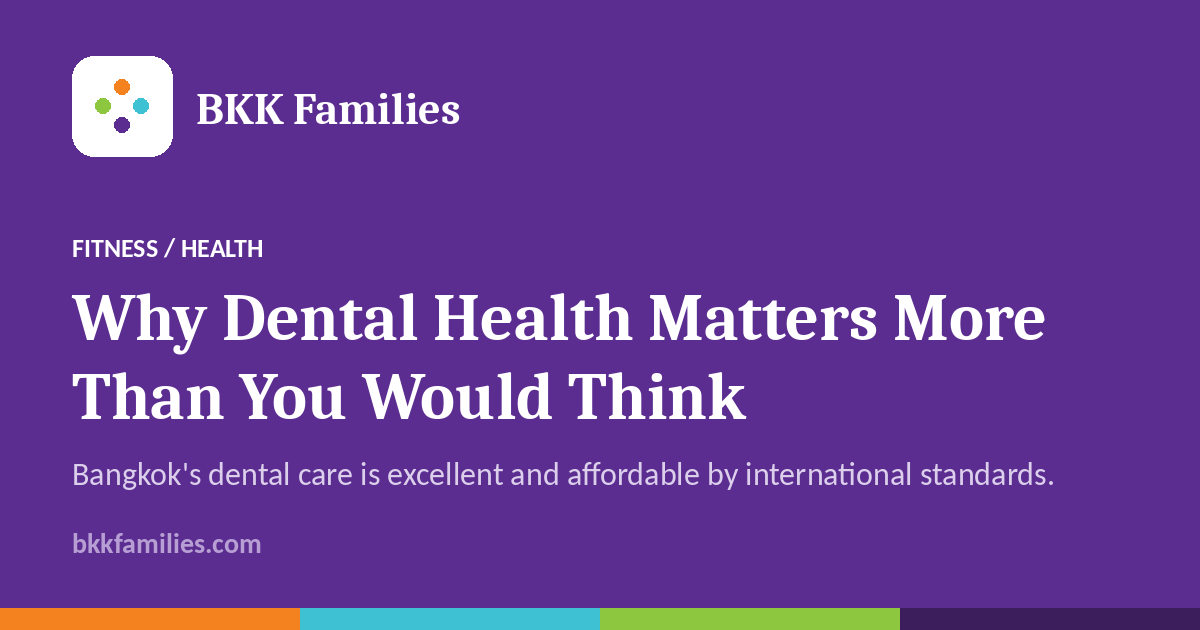
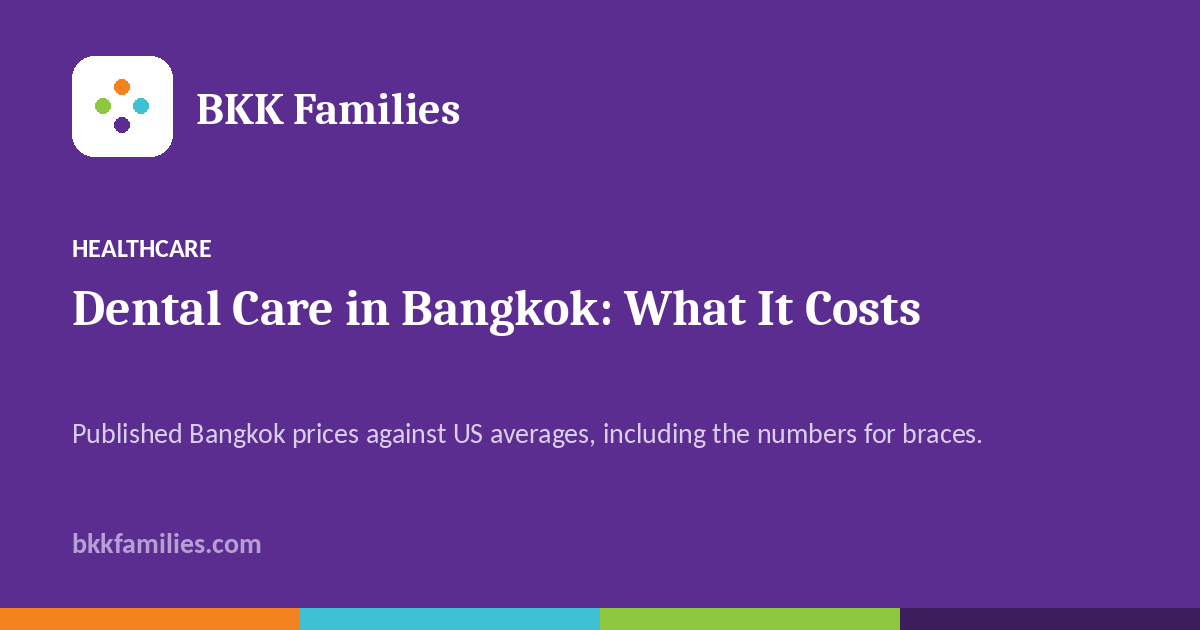
Add Open Graph cards for the healthcare articles, fix three stale ones
Eight 1200x630 cards in public/images/og/blog, and the five new slugs
added to OG_CARDS. Nothing in the healthcare section falls back to the
generic blog image any more.

Five are new: having-a-baby-in-bangkok, bangkok-smog-season-kids,
pharmacies-in-thailand-guide, health-insurance-expat-families-bangkok,
heatstroke-thailand-hot-season.

Three are corrections. top-5-hospitals-in-bangkok,
dental-health-for-families-in-bangkok and staying-fit-in-bangkok
already had cards showing the titles they had before this round of
rewrites, so anyone sharing those links got a preview that did not
match the page. The fitness card also still said HEALTHCARE and now
reads LOCAL LIFE.

Matched to the existing cards by measurement rather than by eye:
background #5C2D91, 22px bottom bar in four 300px brand-colour
segments, logo band at y56, eyebrow y240, title y289 at 60px line
height, excerpt y423 at 37px, domain y533. Type is Caladea Bold 50
over Carlito 26/28, which matched the originals to within 2px on line
width and ink height simultaneously. The site's heading stack is
Georgia, Cambria, serif and these were rendered from the Cambria slot,
not Georgia. Logo and wordmark are lifted from an existing card rather
than redrawn, so the branding is identical by construction.
Regenerating an existing card from scratch diffed at 1.6% of pixels,
all of it text antialiasing.

Note added above OG_CARDS: a slug listed there must have a matching
[…]

Changed region(s): [[0.0617, 0.573, 0.8942, 0.7841], [0.0617, 0.4524, 0.8942, 0.573], [0.0617, 0.3619, 0.2158, 0.4222]]

diff --git a/src/app/blog/[slug]/page.tsx b/src/app/blog/[slug]/page.tsx
@@ -10,6 +10,14 @@ import RichText, { stripRichText } from "@/components/ui/RichText";
  * Articles that ship a generated Open Graph card, keyed by slug. Anything
  * without a heroImage and not listed here falls back to the generic blog
  * card, so a new article can never end up with no share image at all.
+ *
+ * A slug listed here MUST have a matching file at
+ * public/images/og/blog/<slug>.png, or the share image 404s, which is worse
+ * than the default. Add the file and the slug together.
+ *
+ * The cards carry the article title, so RETITLING AN ARTICLE MEANS
+ * REGENERATING ITS CARD. Three cards here were left showing old titles after
+ * a round of rewrites before anyone noticed.
  */
 const OG_CARDS = new Set([
   "third-culture-kids-bangkok-moving-back",
@@ -18,6 +26,11 @@ const OG_CARDS = new Set([
   "staying-fit-in-bangkok",
   "dental-health-for-families-in-bangkok",
   "top-museums-for-kids-in-bangkok",
+  "having-a-baby-in-bangkok",
+  "bangkok-smog-season-kids",
+  "pharmacies-in-thailand-guide",
+  "health-insurance-expat-families-bangkok",
+  "heatstroke-thailand-hot-season",
 ]);
 
 /** Hero photo if there is one, else a generated card, else the blog default. */
